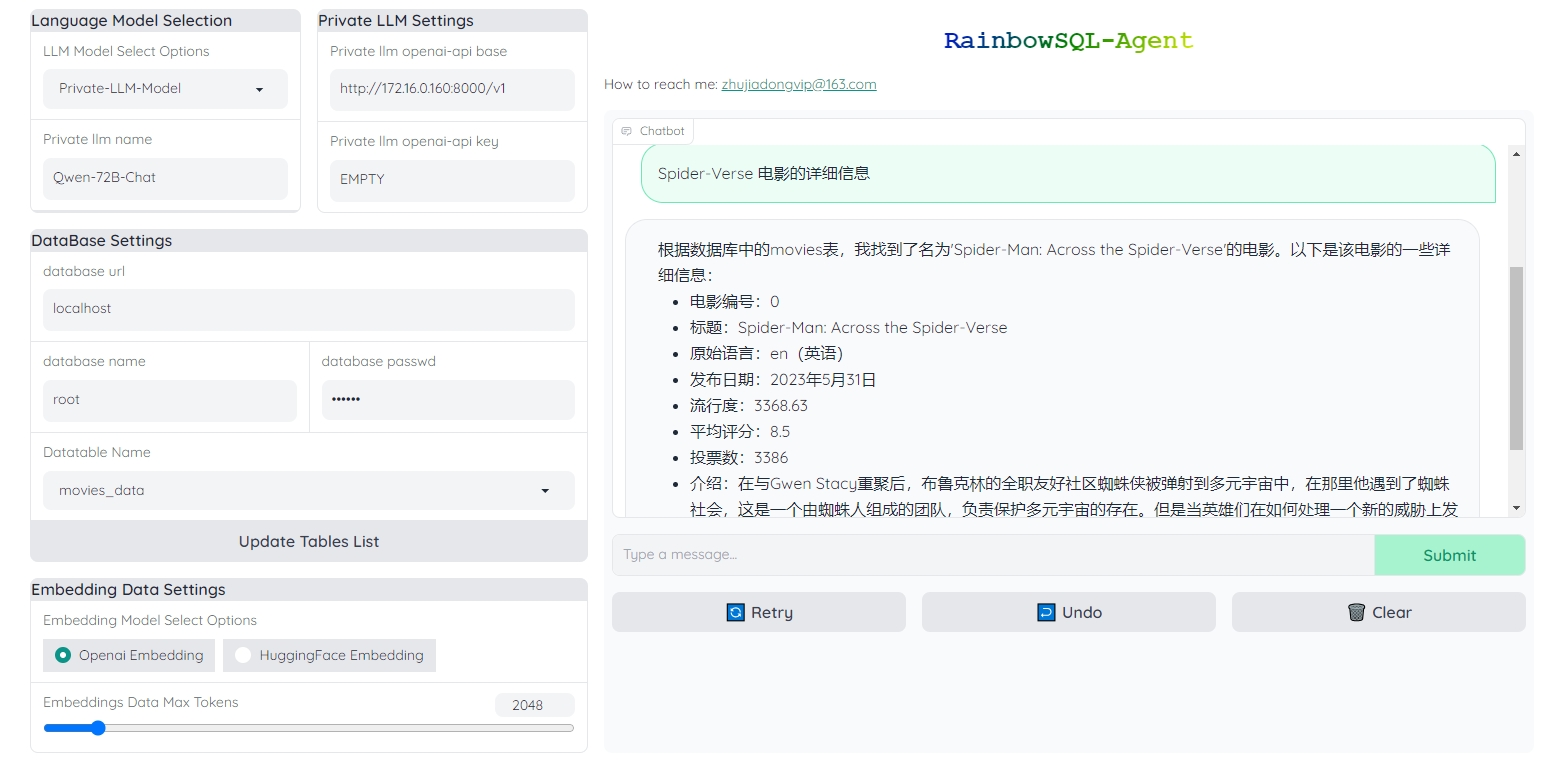
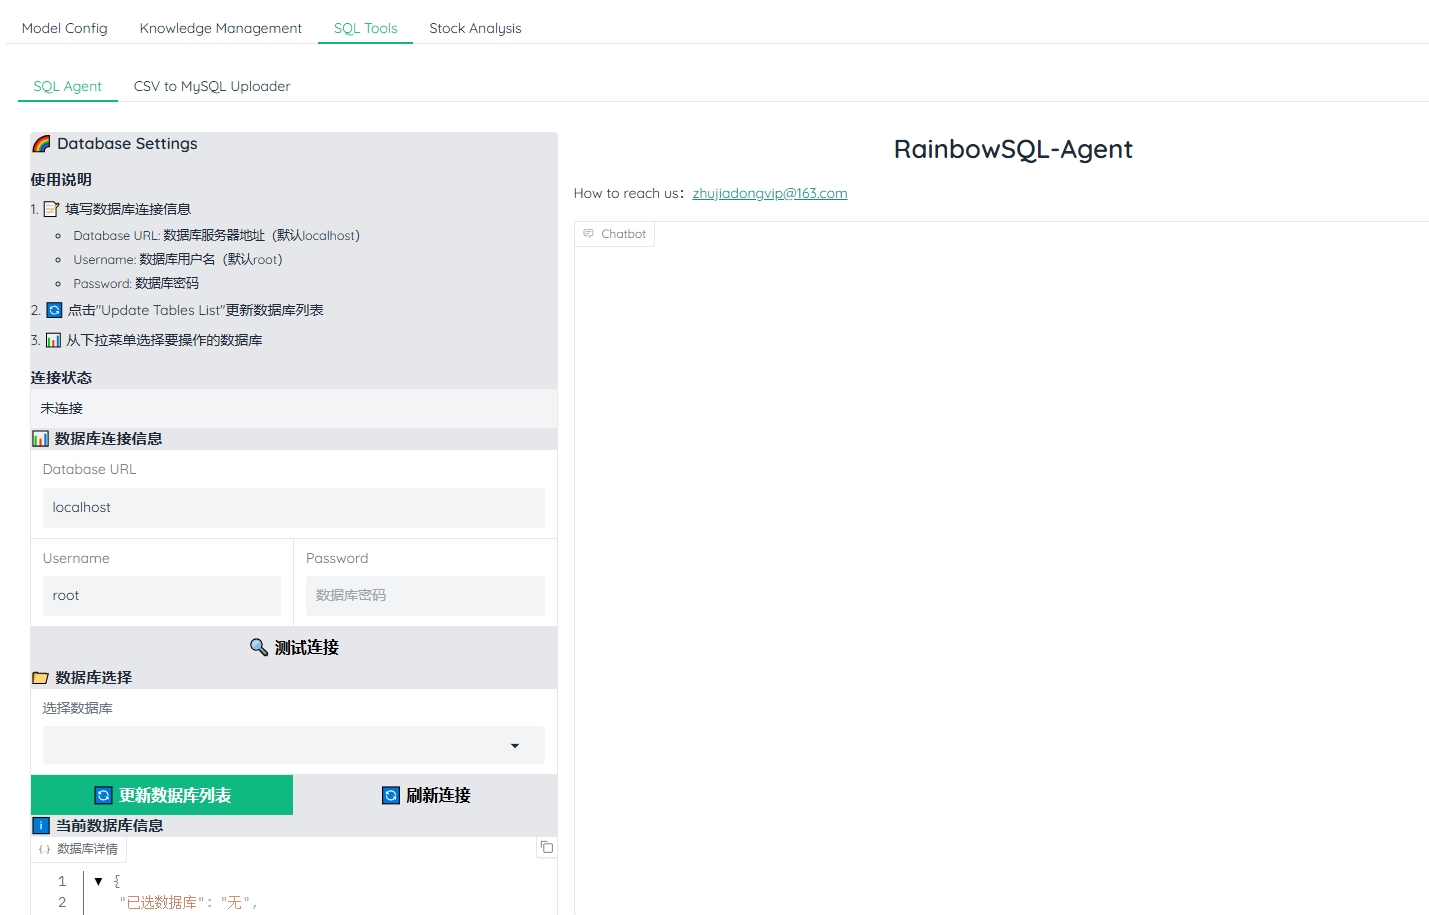
UI

diff --git a/RainbowGPT_Launchpad_UI.py b/RainbowGPT_Launchpad_UI.py
@@ -9,22 +9,32 @@ from RainbowModel_Manager import RainbowModelManager
 
 seafoam = Seafoam()
 
-# 创建模型管理器界面
+# 创建各个界面实例
 RainbowModel_Manager = RainbowModelManager().launch()
-RainbowKnowledge_Agent = RainbowKnowledge_Agent.RainbowKnowledge_Agent().launch()
-RainbowSQL_Agent = RainbowSQL_Agent.RainbowSQLAgent().launch()
-RainbowStock_Analysis = RainbowStock_Analysis.RainbowStock_Analysis().launch()
+RainbowKnowledge_Agent_UI = RainbowKnowledge_Agent.RainbowKnowledge_Agent().launch()
+RainbowSQL_Agent_UI = RainbowSQL_Agent.RainbowSQLAgent().launch()
+RainbowStock_Analysis_UI = RainbowStock_Analysis.RainbowStock_Analysis().launch()
 ChromaDBGradioUI = RainbowChromadb_Option.ChromaDBGradioUI().launch()
-CSVToMySQLUploader = CSVToMySQLUploader().launch()
+CSVToMySQLUploader_UI = CSVToMySQLUploader().launch()
 
+# 创建知识库相关的标签页组
+knowledge_tabs = gr.TabbedInterface(
+    [RainbowKnowledge_Agent_UI, ChromaDBGradioUI],
+    ["Knowledge Agent", "ChromaDB Options"]
+)
+
+# 创建SQL相关的标签页组
+sql_tabs = gr.TabbedInterface(
+    [RainbowSQL_Agent_UI, CSVToMySQLUploader_UI],
+    ["SQL Agent", "CSV to MySQL Uploader"]
+)
+
+# 创建主界面
 RainbowGPT_TabbedInterface = gr.TabbedInterface(
-    [RainbowModel_Manager, RainbowKnowledge_Agent, ChromaDBGradioUI,
-     RainbowSQL_Agent, CSVToMySQLUploader,
-     RainbowStock_Analysis],
-    ["Model-Config", "Rainbow-Knowledge-Agent", "Knowledge-ChromaDB-Option",
-     "Rainbow-SQL-Agent", "CSV-2-MySQL-Uploader",
-     "Rainbow-Stock-Analysis"]
-    , theme=seafoam)
+    [RainbowModel_Manager, knowledge_tabs, sql_tabs, RainbowStock_Analysis_UI],
+    ["Model Config", "Knowledge Agent", "SQL Agent", "Stock Analysis"],
+    theme=seafoam
+)
 
 if __name__ == "__main__":
     RainbowGPT_TabbedInterface.queue().launch(share=True)
